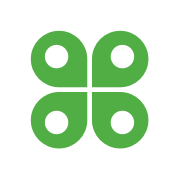
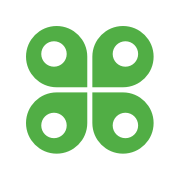
Pan with hammer

diff --git a/js/main.js b/js/main.js
@@ -755,60 +755,126 @@ $(document).ready(function(){
     }
   });
 
-  var scaling;
+  // var scaling;
 
-  document.addEventListener('touchstart', function(e) {
-    if(e.touches.length == 2) {
+  // document.addEventListener('touchstart', function(e) {
+  //   if(e.touches.length == 2) {
+  //     scaling = true;
+  //     console.log("TOUCH START");
+  //     console.log(e);
+  //     // e.preventDefault();
+  //   } 
+  // });
+  // document.addEventListener('touchmove', function(e) {
+  //   if(e.touches.length == 2) {
+  //     console.log("TOUCH MOVE");
+  //     console.log(e);
 
-      // e.preventDefault();
-      // scale = scale + 0.04 ;
-      // $('.mapcontainer').css('transform', 'scale('+scale+')');
+  //     // Zoom Out
+  //     if(e.scale < 1) {
+  //       e.preventDefault();
+  //       if(scale < .4) return false;
+  //       count += 1;
+  //       // if (count % 7 == 0) {
+  //         scale = scale - 0.04 ;
+  //         // scale = scale * e.scale;
+  //         $('.mapcontainer').css('transform', 'scale('+scale+')');
+  //       // }
+  //     }
 
-      var scaling = true;
-      console.log("TOUCH START");
-      console.log(e);
-      // e.preventDefault();
-    } 
+  //     // Zoom In
+  //     if(e.scale > 1) {
+  //       e.preventDefault();
+  //       if(scale > 1.2) return false;
+  //       count += 1;
+  //       // if (count % 7 == 0) {
+  //         scale = scale + 0.04 ;
+  //         // scale = scale * e.scale;
+  //         $('.mapcontainer').css('transform', 'scale('+scale+')');
+  //       // }
+  //     }
+
+  //     e.preventDefault();
+  //   } 
+  // });
+  // document.addEventListener('touchend', function(e) {
+  //   if(scaling) {
+  //     scaling = false;
+  //     console.log("TOUCH END");
+  //     console.log(e);
+  //     // e.preventDefault();
+  //   } 
+  // });
+
+  var hammer = new Hammer(document.getElementById('map'), {
+    domEvents: false
   });
-  document.addEventListener('touchmove', function(e) {
-    if(e.touches.length == 2) {
-      console.log("TOUCH MOVE");
-      console.log(e);
 
-      // Zoom Out
-      if(e.scale < 1) {
-        e.preventDefault();
-        if(scale < .4) return false;
-        count += 1;
-        // if (count % 7 == 0) {
-          scale = scale - 0.04 ;
-          // scale = scale * e.scale;
-          $('.mapcontainer').css('transform', 'scale('+scale+')');
-        // }
-      }
-
-      // Zoom In
-      if(e.scale > 1) {
-        e.preventDefault();
-        if(scale > 1.2) return false;
-        count += 1;
-        // if (count % 7 == 0) {
-          scale = scale + 0.04 ;
-          // scale = scale * e.scale;
-          $('.mapcontainer').css('transform', 'scale('+scale+')');
-        // }
-      }
-
-      e.preventDefault();
-    } 
+  hammer.get('pinch').set({
+    enable: true
   });
-  document.addEventListener('touchend', function(e) {
-    if(scaling) {
-      scaling = false;
-      console.log("TOUCH END");
-      console.log(e);
-      // e.preventDefault();
-    } 
+
+  hammer.on('pinchstart', function (e) {
+    console.log("🔨 START");
+    console.log(e.scale);
+    // e.preventDefault();
+  });
+
+  hammer.on('pinchmove', function (e) {
+    // console.log("");
+    console.log(e.scale);
+    // e.preventDefault();
+  });
+
+  var iX = 0, iY = 0;
+
+  hammer.on('panstart', function (e) {
+    // $('#map').scrollTop($("#map").scrollTop() - e.deltaY);
+    // $('#map').scrollLeft($("#map").scrollLeft() - e.deltaX);
+
+    // translate(e.deltaX, e.deltaY);
+    // console.log("PAN START");
+    // console.log(e.center);
+
+    iX = e.center.x;
+    iY = e.center.y;
+  });
+  hammer.on('panmove', function (e) {
+    // $('#map').scrollTop($("#map").scrollTop() - e.deltaY);
+    // $('#map').scrollLeft($("#map").scrollLeft() - e.deltaX);
+
+    // translate(e.deltaX, e.deltaY);
+    // console.log("PAN MOVE");
+    // console.log(e.center);
+
+    var cX = e.center.x;
+    var cY = e.center.y;
+
+    var deltaX = iX - cX;
+    var deltaY = iY - cY;
+
+
+    // console.log(deltaX, deltaY);
+
+    // console.log($("#map").scrollLeft(), $("#map").scrollTop());
+
+
+    $('#map').scrollLeft($("#map").scrollLeft() + deltaX);
+    $('#map').scrollTop($("#map").scrollTop() + deltaY);
+
+    // console.log($("#map").scrollLeft(), $("#map").scrollTop());
+    // console.log("--------------------");
+
+    iX = cX;
+    iY = cY;
+  });
+  hammer.on('panend', function (e) {
+    // $('#map').scrollTop($("#map").scrollTop() - e.deltaY);
+    // $('#map').scrollLeft($("#map").scrollLeft() - e.deltaX);
+
+    // translate(e.deltaX, e.deltaY);
+    console.log("PAN END");
+    console.log(e.center);
   });
 
   // Floor switch Logic

diff --git a/js/hammer-time.min.js b/js/hammer-time.min.js
@@ -1,0 +1,1 @@
+!function(){var a=window.MutationObserver||window.WebKitMutationObserver,b="ontouchstart"in window||window.DocumentTouch&&document instanceof DocumentTouch,c=void 0!==document.documentElement.style["touch-action"]||document.documentElement.style["-ms-touch-action"];if(!c&&b&&a){window.Hammer=window.Hammer||{};var d=/touch-action[:][\s]*(none)[^;'"]*/,e=/touch-action[:][\s]*(manipulation)[^;'"]*/,f=/touch-action/,g=navigator.userAgent.match(/(iPad|iPhone|iPod)/g)?!0:!1,h=function(){try{var a=document.createElement("canvas");return!(!window.WebGLRenderingContext||!a.getContext("webgl")&&!a.getContext("experimental-webgl"))}catch(b){return!1}}(),i=h&&g;window.Hammer.time={getTouchAction:function(a){return this.checkStyleString(a.getAttribute("style"))},checkStyleString:function(a){return f.test(a)?d.test(a)?"none":e.test(a)?"manipulation":!0:void 0},shouldHammer:function(a){var b=this.hasParent(a.target);return b&&(!i||Date.now()-a.target.lastStart<125)?b:!1},touchHandler:function(a){var b=a.target.getBoundingClientRect(),c=b.top!==this.pos.top||b.left!==this.pos.left,d=this.shouldHammer(a);("none"===d||c===!1&&"manipulation"===d)&&("touchend"===a.type&&(a.target.focus(),setTimeout(function(){a.target.click()},0)),a.preventDefault()),this.scrolled=!1,delete a.target.lastStart},touchStart:function(a){this.pos=a.target.getBoundingClientRect(),i&&this.hasParent(a.target)&&(a.target.lastStart=Date.now())},styleWatcher:function(a){a.forEach(this.styleUpdater,this)},styleUpdater:function(a){if(a.target.updateNext)return void(a.target.updateNext=!1);var b=this.getTouchAction(a.target);return b?void("none"!==b&&(a.target.hadTouchNone=!1)):void(!b&&(a.oldValue&&this.checkStyleString(a.oldValue)||a.target.hadTouchNone)&&(a.target.hadTouchNone=!0,a.target.updateNext=!1,a.target.setAttribute("style",a.target.getAttribute("style")+" touch-action: none;")))},hasParent:function(a){for(var b,c=a;c&&c.parentNode;c=c.parentNode)if(b=this.getTouchAction(c))return b;return!1},installStartEvents:function(){document.addEventListener("touchstart",this.touchStart.bind(this)),document.addEventListener("mousedown",this.touchStart.bind(this))},installEndEvents:function(){document.addEventListener("touchend",this.touchHandler.bind(this),!0),document.addEventListener("mouseup",this.touchHandler.bind(this),!0)},installObserver:function(){this.observer=new a(this.styleWatcher.bind(this)).observe(document,{subtree:!0,attributes:!0,attributeOldValue:!0,attributeFilter:["style"]})},install:function(){this.installEndEvents(),this.installStartEvents(),this.installObserver()}},window.Hammer.time.install()}}();

diff --git a/index.html b/index.html
@@ -9,21 +9,25 @@
         <title>Spaces - Freshdesk</title>
         <meta name="description" content="">
         <meta name="viewport" content="width=device-width, user-scalable=no, initial-scale=1, maximum-scale=1, minimum-scale=1">
+        <meta name="mobile-web-app-capable" content="yes">
 
         <!-- Hide browser chrome on iPhone -->
         <meta name="apple-mobile-web-app-capable" content="yes" />
-
-<meta content="white-translucent" id="status_bar" name="apple-mobile-web-app-status-bar-style" />
+        <meta name="apple-mobile-web-app-title" content="Spaces">
+        <meta content="white-translucent" id="status_bar" name="apple-mobile-web-app-status-bar-style" />
 
         <link rel="stylesheet" href="css/main.css">
         <link rel="stylesheet" href="css/semantic.min.css">
 
-        <link rel="icon" sizes="152x152" href="img/apple-touch-icon.png">
-        <link rel="apple-touch-icon" sizes="152x152" href="img/apple-touch-icon.png">
+        <link rel="icon" sizes="180x180" href="img/apple-touch-icon.png">
+        <link rel="apple-touch-icon" sizes="180x180" href="img/apple-touch-icon.png">
+        <link rel="apple-touch-startup-image" href="img/launch.jpg">
 
 
         <script src="js/jquery.js"></script>
         <script src="js/semantic.min.js"></script>
+        <!-- <script src="js/hammer-time.min.js"></script> -->
+        <script src="https://hammerjs.github.io/dist/hammer.js"></script>
         <script src="js/main.js"></script>
     </head>
     <body>

diff --git a/css/main.css b/css/main.css
@@ -789,19 +789,21 @@ body {
 	html, window, body {
 		overflow: hidden;
 	}
-	
+
 	body {
 
 	}
-body:before{
-    display: block;
-    content: " ";
-    height:20px;
-    top: 0;
-    background:rgba(0,0,0,0.8);
-    position:-webkit-sticky;
-    position:sticky;
-}
+
+	body:before{
+	    display: block;
+	    content: " ";
+	    height:20px;
+	    top: 0;
+	    /*background:rgba(0,0,0,0.8);*/
+	    position:-webkit-sticky;
+	    position:sticky;
+	}
+	
 	#map {
 		top: 90px;
 		bottom: 0px;
